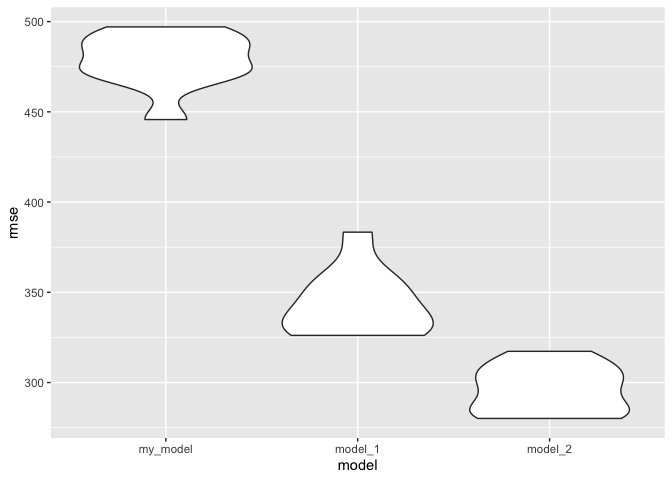
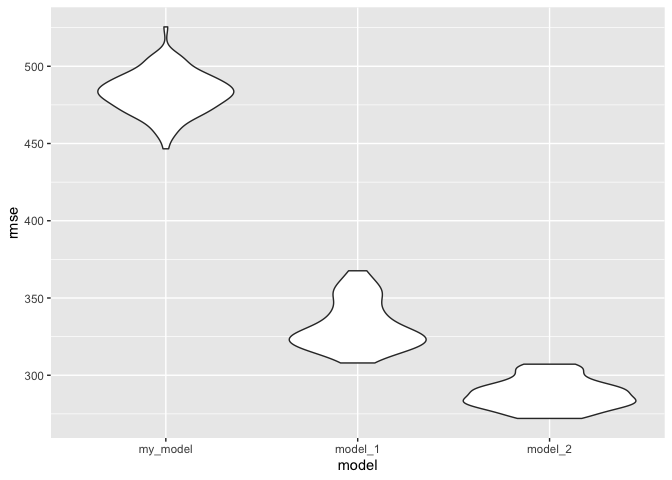
did some bootstraps, distribution plots, and confidence intervals!

diff --git a/p8105_hw6_lzs2109.md b/p8105_hw6_lzs2109.md
@@ -41,8 +41,8 @@ my_model =
   lm(bwt ~ delwt + ppwt + ppbmi, data = bweight_df)
 
 bweight_df %>% 
-  modelr::add_residuals(my_model) %>% 
-  modelr::add_predictions(my_model) %>%
+  add_residuals(my_model) %>% 
+  add_predictions(my_model) %>%
   ggplot(aes(x = pred, y= resid)) + 
     geom_point() + 
     labs(x = "Fitted Values", y = "Residuals")
@@ -51,24 +51,44 @@ bweight_df %>%
 ![](p8105_hw6_lzs2109_files/figure-gfm/unnamed-chunk-3-1.png)<!-- -->
 
 ``` r
-model_1 = lm(bwt ~ blength + gaweeks, data = bweight_df) %>% 
-  broom::tidy()
-
-model_2 = 
-  lm(bwt ~ bhead + 
-           blength + 
-           babysex + 
-           bhead * blength + 
-           blength * babysex + 
-           bhead * babysex + 
-           bhead * blength * babysex, 
-           data = bweight_df) %>% 
+lm(bwt ~ blength + gaweeks, data = bweight_df) %>% 
   broom::tidy()
 ```
 
+    ## # A tibble: 3 × 5
+    ##   term        estimate std.error statistic  p.value
+    ##   <chr>          <dbl>     <dbl>     <dbl>    <dbl>
+    ## 1 (Intercept)  -4348.      98.0      -44.4 0       
+    ## 2 blength        129.       1.99      64.6 0       
+    ## 3 gaweeks         27.0      1.72      15.7 2.36e-54
+
+``` r
+lm(bwt ~ bhead + 
+         blength + 
+         babysex + 
+         bhead * blength + 
+         blength * babysex + 
+         bhead * babysex + 
+         bhead * blength * babysex, 
+         data = bweight_df) %>% 
+broom::tidy()
+```
+
+    ## # A tibble: 8 × 5
+    ##   term                    estimate std.error statistic      p.value
+    ##   <chr>                      <dbl>     <dbl>     <dbl>        <dbl>
+    ## 1 (Intercept)            -7177.     1265.       -5.67  0.0000000149
+    ## 2 bhead                    182.       38.1       4.78  0.00000184  
+    ## 3 blength                  102.       26.2       3.90  0.0000992   
+    ## 4 babysex2                6375.     1678.        3.80  0.000147    
+    ## 5 bhead:blength             -0.554     0.780    -0.710 0.478       
+    ## 6 blength:babysex2        -124.       35.1      -3.52  0.000429    
+    ## 7 bhead:babysex2          -198.       51.1      -3.88  0.000105    
+    ## 8 bhead:blength:babysex2     3.88      1.06      3.67  0.000245
+
 ``` r
 cv_df = 
-  modelr::crossv_mc(bweight_df, 10) %>% 
+  crossv_mc(bweight_df, 100) %>% 
   mutate(
     train = map(train, as_tibble),
     test = map(test, as_tibble))
@@ -103,3 +123,107 @@ cv_df %>%
 ```
 
 ![](p8105_hw6_lzs2109_files/figure-gfm/unnamed-chunk-5-1.png)<!-- -->
+
+``` r
+cv_df %>% head()
+```
+
+    ## # A tibble: 6 × 9
+    ##   train                 test  .id   my_model model_1 model_2 rmse_my_model rmse_model_1
+    ##   <list>                <lis> <chr> <list>   <list>  <list>          <dbl>        <dbl>
+    ## 1 <tibble [3,473 × 20]> <tib… 001   <lm>     <lm>    <lm>             483.         334.
+    ## 2 <tibble [3,473 × 20]> <tib… 002   <lm>     <lm>    <lm>             487.         353.
+    ## 3 <tibble [3,473 × 20]> <tib… 003   <lm>     <lm>    <lm>             493.         343.
+    ## 4 <tibble [3,473 × 20]> <tib… 004   <lm>     <lm>    <lm>             461.         309.
+    ## 5 <tibble [3,473 × 20]> <tib… 005   <lm>     <lm>    <lm>             471.         326.
+    ## 6 <tibble [3,473 × 20]> <tib… 006   <lm>     <lm>    <lm>             490.         353.
+    ## # … with 1 more variable: rmse_model_2 <dbl>
+
+### Problem 2
+
+``` r
+weather_df = 
+  rnoaa::meteo_pull_monitors(
+    c("USW00094728"),
+    var = c("PRCP", "TMIN", "TMAX"), 
+    date_min = "2017-01-01",
+    date_max = "2017-12-31") %>%
+  mutate(
+    name = recode(id, USW00094728 = "CentralPark_NY"),
+    tmin = tmin / 10,
+    tmax = tmax / 10) %>%
+  select(name, id, everything())
+```
+
+    ## Registered S3 method overwritten by 'hoardr':
+    ##   method           from
+    ##   print.cache_info httr
+
+    ## using cached file: ~/Library/Caches/R/noaa_ghcnd/USW00094728.dly
+
+    ## date created (size, mb): 2021-11-28 11:33:19 (7.614)
+
+    ## file min/max dates: 1869-01-01 / 2021-11-30
+
+``` r
+weather_bootstraps = 
+  weather_df %>% 
+  bootstrap(n = 5000) %>% 
+  mutate(
+    models = map(strap, ~lm(tmax ~ tmin, data = .x)),
+    results_brglance = map(models, broom::glance),
+    results_brtidy = map(models, broom::tidy)) %>% 
+  select(.id, results_brglance, results_brtidy)
+
+weather_bootstraps %>% 
+  unnest(results_brglance) %>% 
+  ggplot(aes(x = r.squared)) +
+  geom_histogram()
+```
+
+    ## `stat_bin()` using `bins = 30`. Pick better value with `binwidth`.
+
+![](p8105_hw6_lzs2109_files/figure-gfm/unnamed-chunk-7-1.png)<!-- -->
+
+``` r
+weather_bootstraps %>% 
+  unnest(results_brtidy) %>% 
+  select(.id, term, estimate) %>% 
+  pivot_wider(names_from = term, values_from = estimate) %>% 
+  janitor::clean_names() %>% 
+  mutate(log = log10(intercept * tmin)) %>% 
+  ggplot(aes(x = log)) +
+  geom_histogram()
+```
+
+    ## `stat_bin()` using `bins = 30`. Pick better value with `binwidth`.
+
+![](p8105_hw6_lzs2109_files/figure-gfm/unnamed-chunk-7-2.png)<!-- -->
+
+``` r
+weather_bootstraps %>% 
+  unnest(results_brglance) %>% 
+  summarize(ci_lower = quantile(r.squared, 0.025), 
+            ci_upper = quantile(r.squared, 0.975))
+```
+
+    ## # A tibble: 1 × 2
+    ##   ci_lower ci_upper
+    ##      <dbl>    <dbl>
+    ## 1    0.895    0.927
+
+``` r
+weather_bootstraps %>% 
+  unnest(results_brtidy) %>% 
+  select(.id, term, estimate) %>% 
+  pivot_wider(names_from = term, values_from = estimate) %>% 
+  janitor::clean_names() %>% 
+  mutate(log = log10(intercept * tmin)) %>% 
+  summarize(ci_lower = quantile(log, 0.025), 
+            ci_upper = quantile(log, 0.975))
+```
+
+    ## # A tibble: 1 × 2
+    ##   ci_lower ci_upper
+    ##      <dbl>    <dbl>
+    ## 1    0.853    0.894
